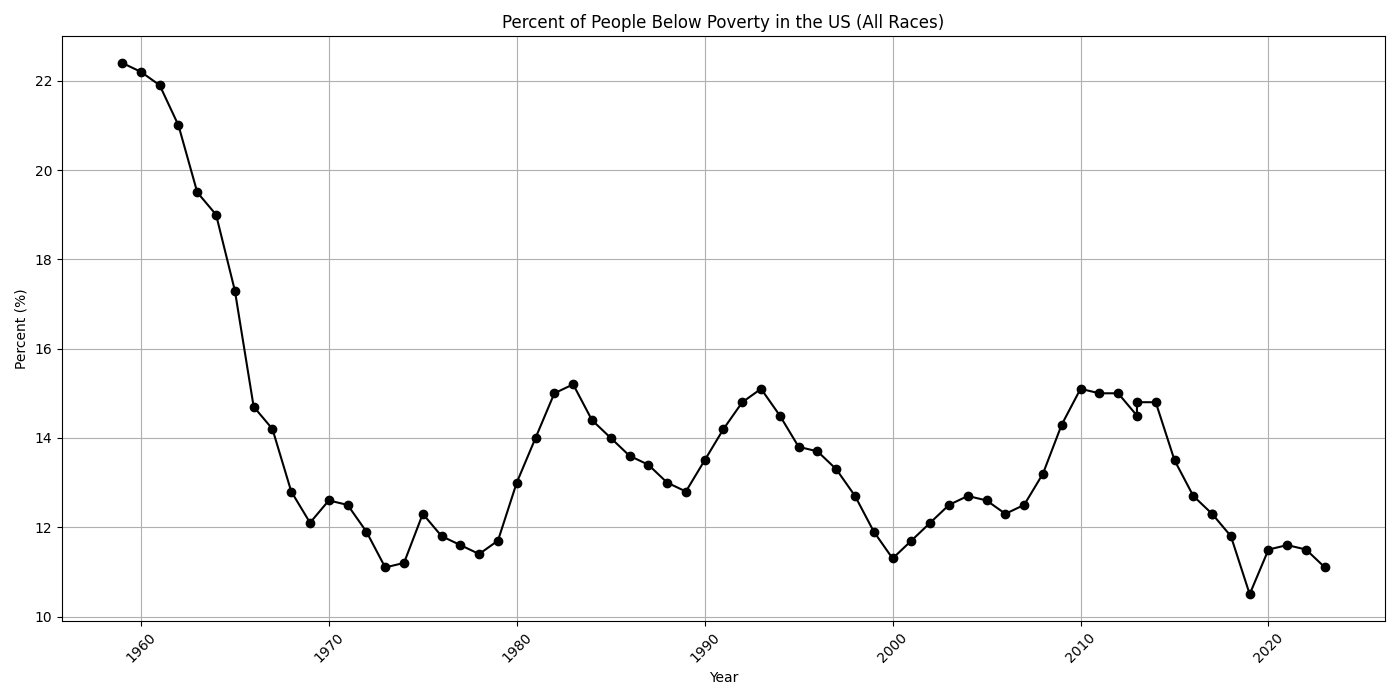
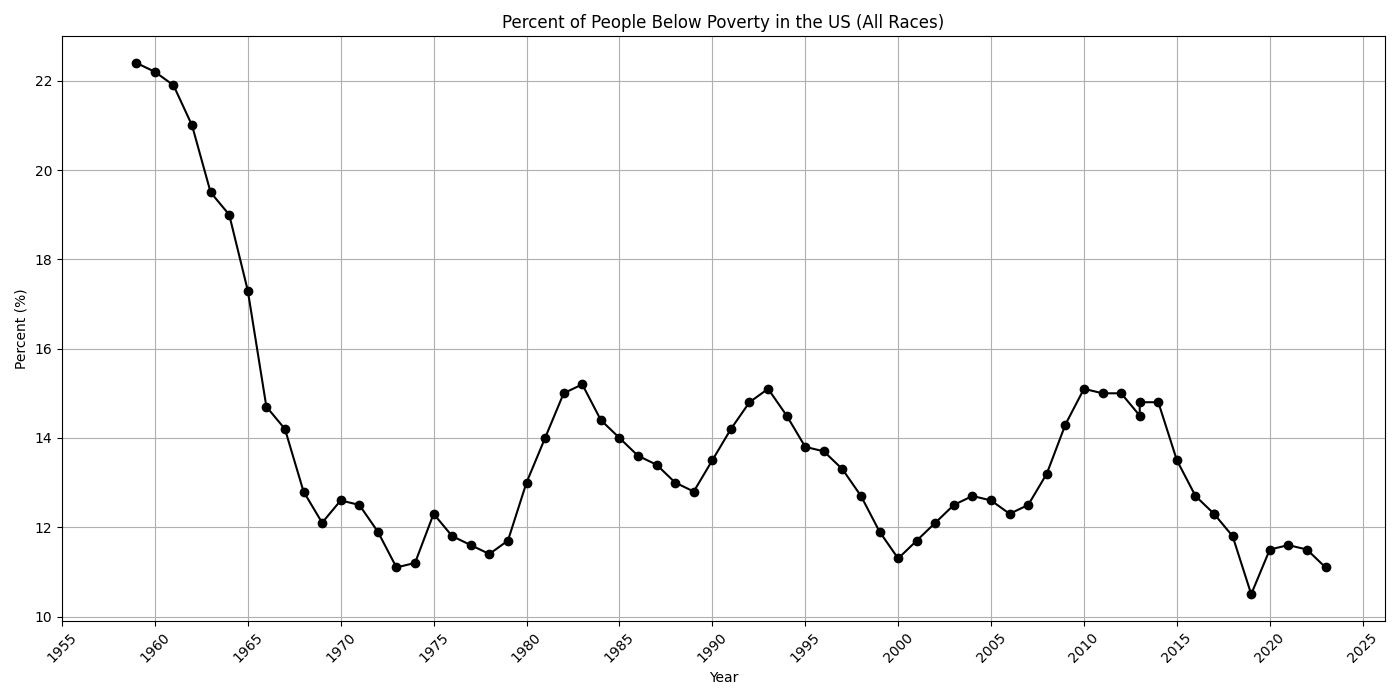
changed tick marks

diff --git a/graph.py b/graph.py
@@ -2,6 +2,7 @@
 import matplotlib.pyplot as plt
 import csv
 import os
+from matplotlib.ticker import MultipleLocator
 
 # --- Global Constants ---
 RAW_DATA_DIR = "raw-data"
@@ -124,8 +125,17 @@ def create_poverty_plot(years_list, data_list, title, ylabel, filename, color_te
     plt.xlabel('Year')
     plt.ylabel(ylabel) # Y-axis label always shown
     plt.grid(True)
-    plt.xticks(rotation=45)
-    
+
+    # Set x-axis ticks to be every 5 years
+    min_year = min(years_list)
+    max_year = max(years_list)
+    plt.xticks(range(min_year - (min_year % 5), max_year + 5, 5), rotation=45)
+
+    # Increase y-axis tick frequency
+    from matplotlib.ticker import MultipleLocator
+    ax = plt.gca()
+    ax.yaxis.set_major_locator(MultipleLocator(2)) # Adjust the '2' for desired percent interval
+
     if annotate:
         # Add annotation for Reagan's first term
         plt.axvspan(term1_start, term1_end + 1, color=color_term1, alpha=0.6, 
